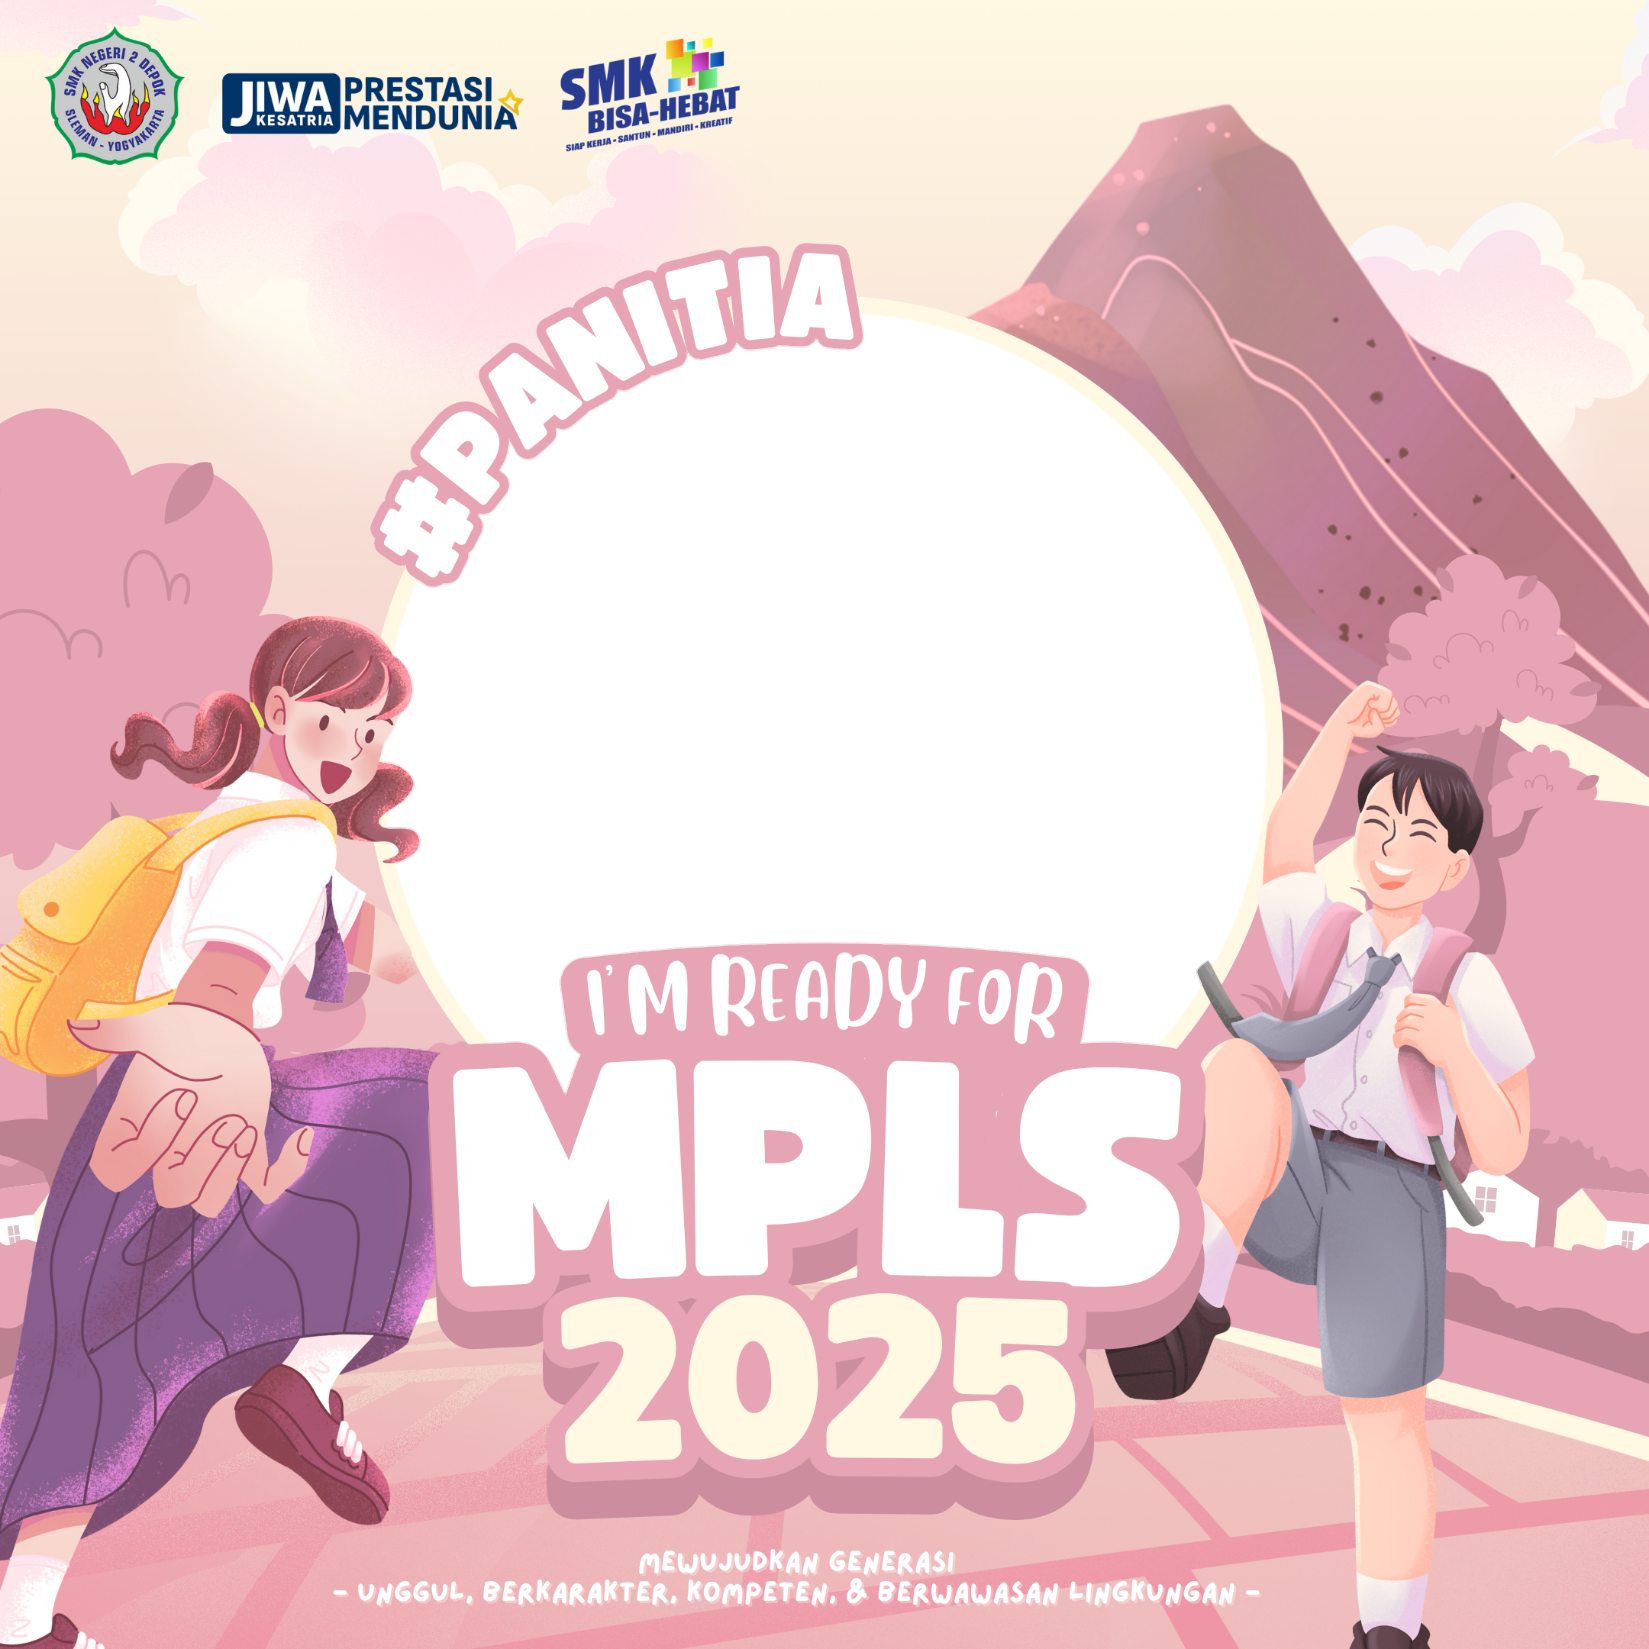
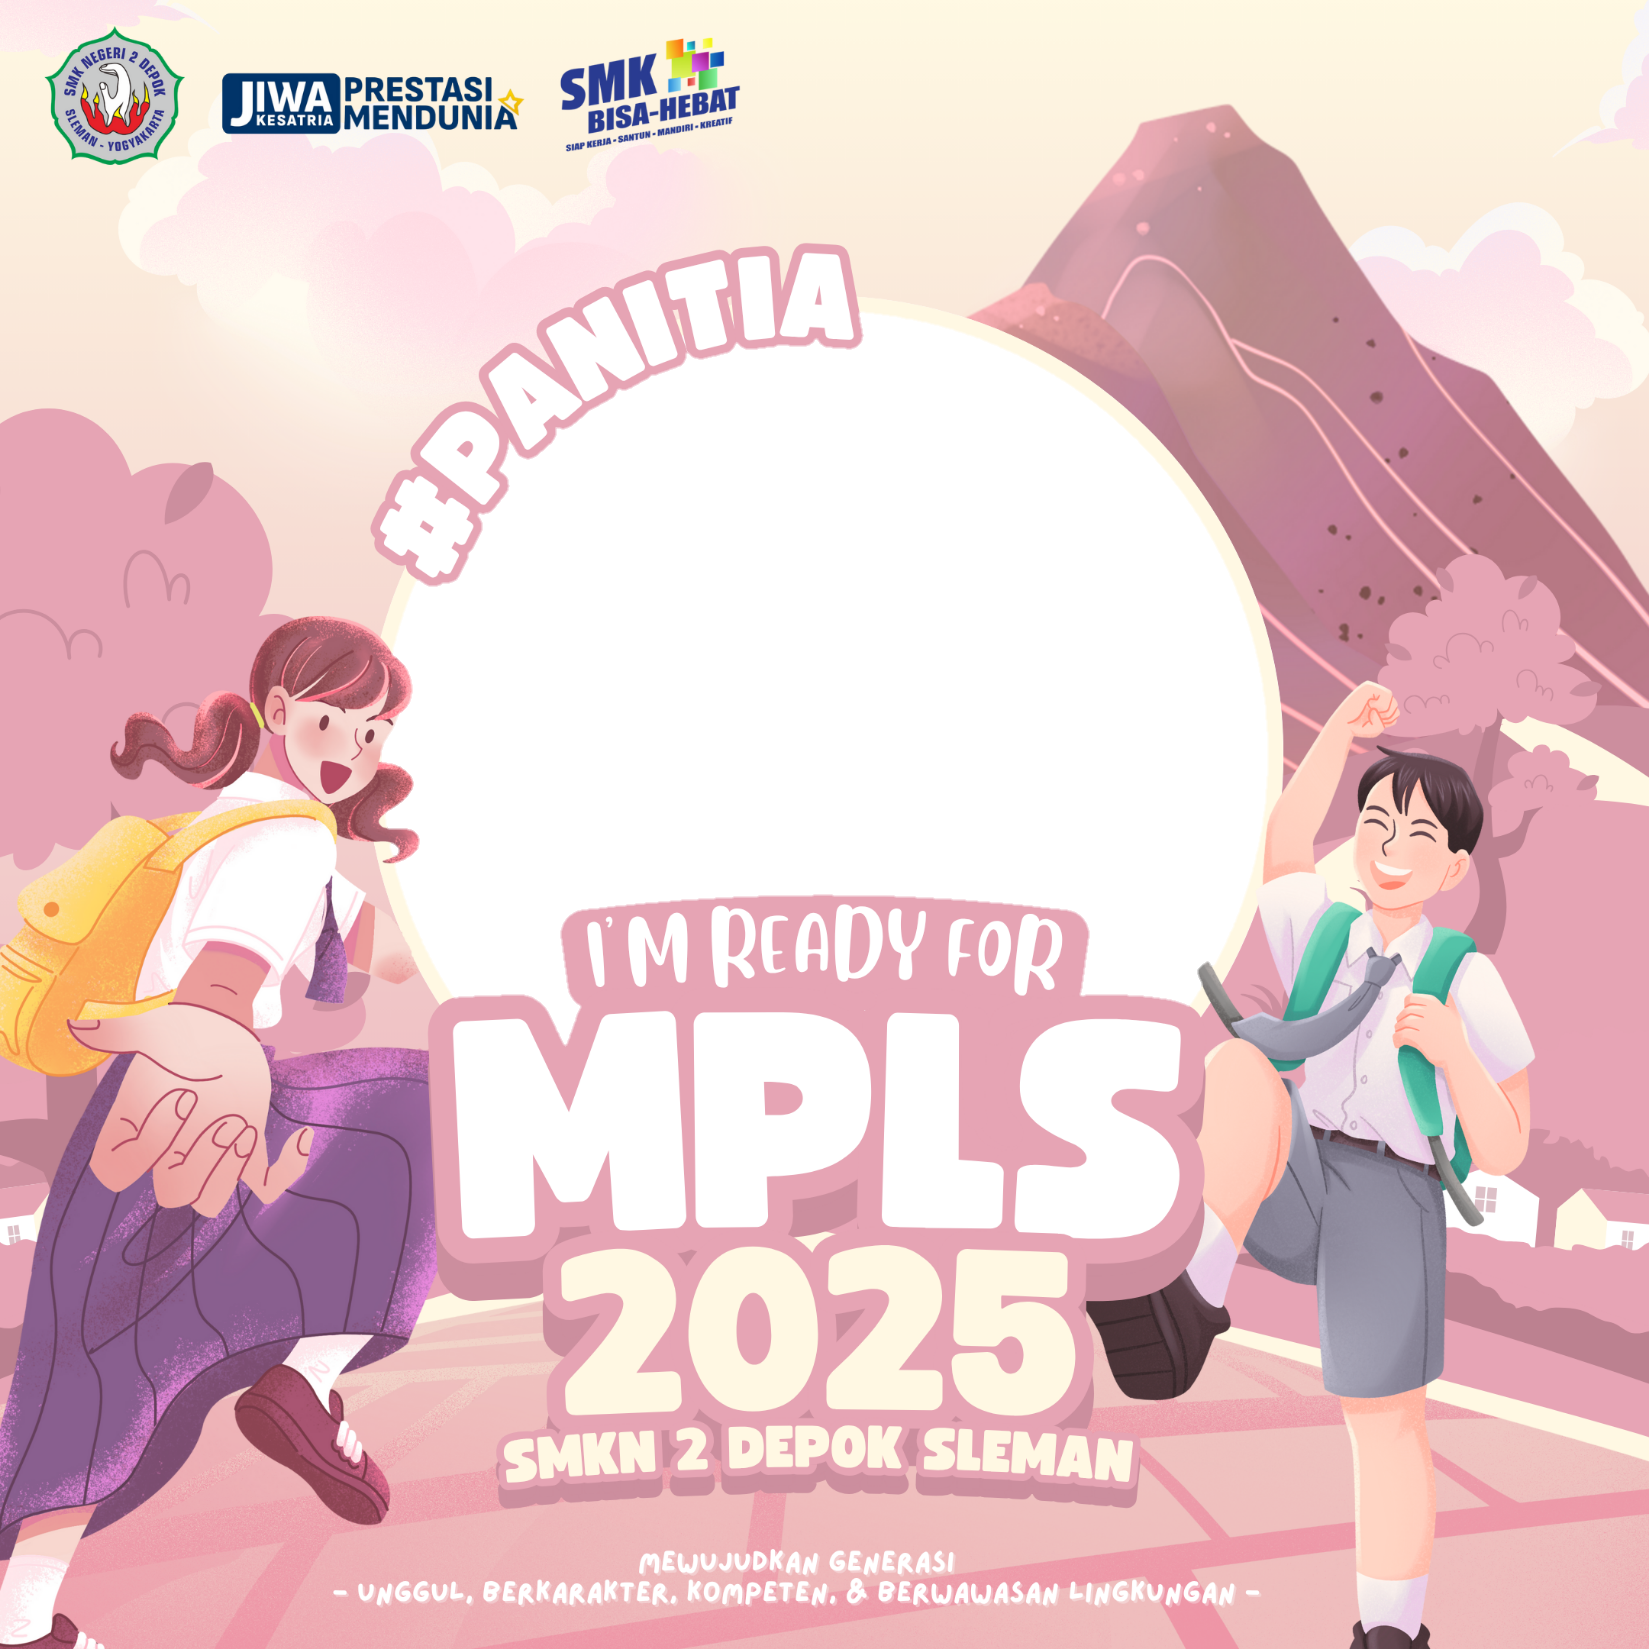
Update twibbon images and Panitia caption text
Replaced the twibbon and twibbon-panitia images with new versions. Updated the caption text in Panitia.jsx to use a more inclusive greeting and simplified the message.

diff --git a/src/Panitia.jsx b/src/Panitia.jsx
@@ -330,10 +330,8 @@ function Panitia() {
 "𝚁𝚎𝚊𝚕𝚒𝚣𝚒𝚗𝚐 𝚊 𝚜𝚞𝚙𝚎𝚛𝚒𝚘𝚛 𝚐𝚎𝚗𝚎𝚛𝚊𝚝𝚒𝚘𝚗, 𝚌𝚑𝚊𝚛𝚊𝚌𝚝𝚎𝚛𝚒𝚣𝚎𝚍, 𝚌𝚘𝚖𝚙𝚎𝚝𝚎𝚗𝚝 𝚊𝚗𝚍 𝚎𝚗𝚟𝚒𝚛𝚘𝚗𝚖𝚎𝚗𝚝𝚊𝚕𝚕𝚢 𝚜𝚘𝚞𝚗𝚍"
 Mewujudkan generasi unggul, berkarakter, kompeten dan berwawasan lingkungan.
 
-Halo Stembayoers! 👋✨
-Saya ${captionData.namaLengkap || '(Nama lengkap)'} sebagai ${captionData.kelasJurusan || '(posisi/divisi panitia)'} dalam kepengurusan MPLS SMKN 2 Depok Sleman 2025. Siap memberikan yang terbaik untuk menciptakan lingkungan yang mendukung dalam mewujudkan generasi unggul, berkarakter, kompeten dan berwawasan lingkungan 🌱
-
-Mari kita wujudkan MPLS yang berkesan dan bermakna! 💪
+Halo future leaders! 👋✨
+Saya ${captionData.namaLengkap || '(Nama lengkap)'} sebagai ${captionData.kelasJurusan || '(posisi/divisi panitia)'} Siap memberikan yang terbaik untuk menciptakan lingkungan yang mendukung dalam mewujudkan generasi unggul, berkarakter, kompeten dan berwawasan lingkungan 🌱
 
 Untuk informasi lebih lanjut kunjungi Instagram resmi 📝
 @infompls.smkn2depoksleman | @smkn2depoksleman.official | @osis.stembayo | @pkstembayo | @humtik.stembayo
